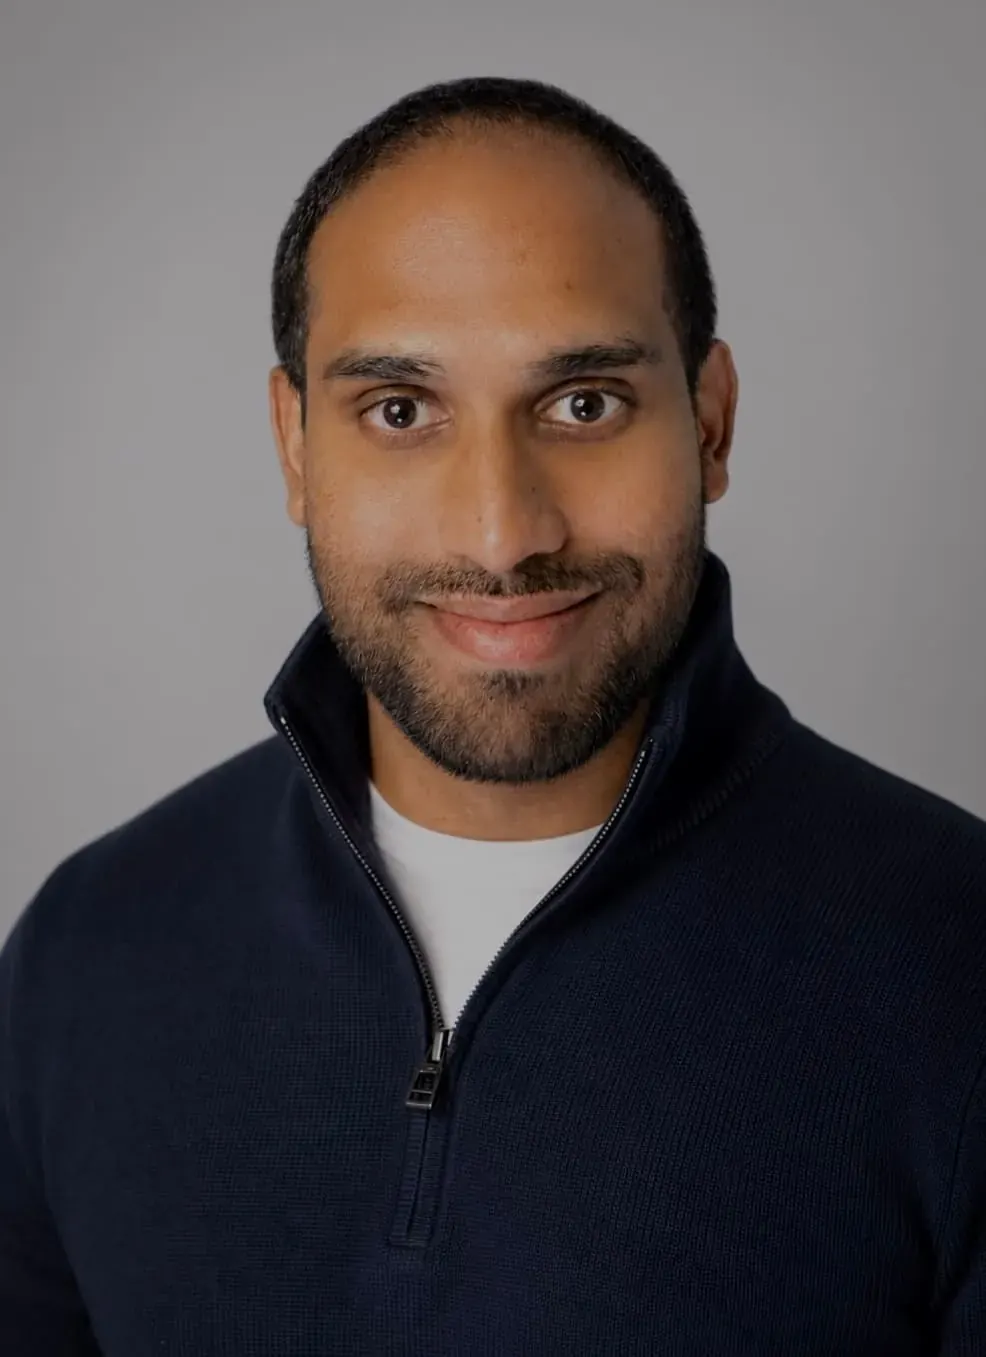
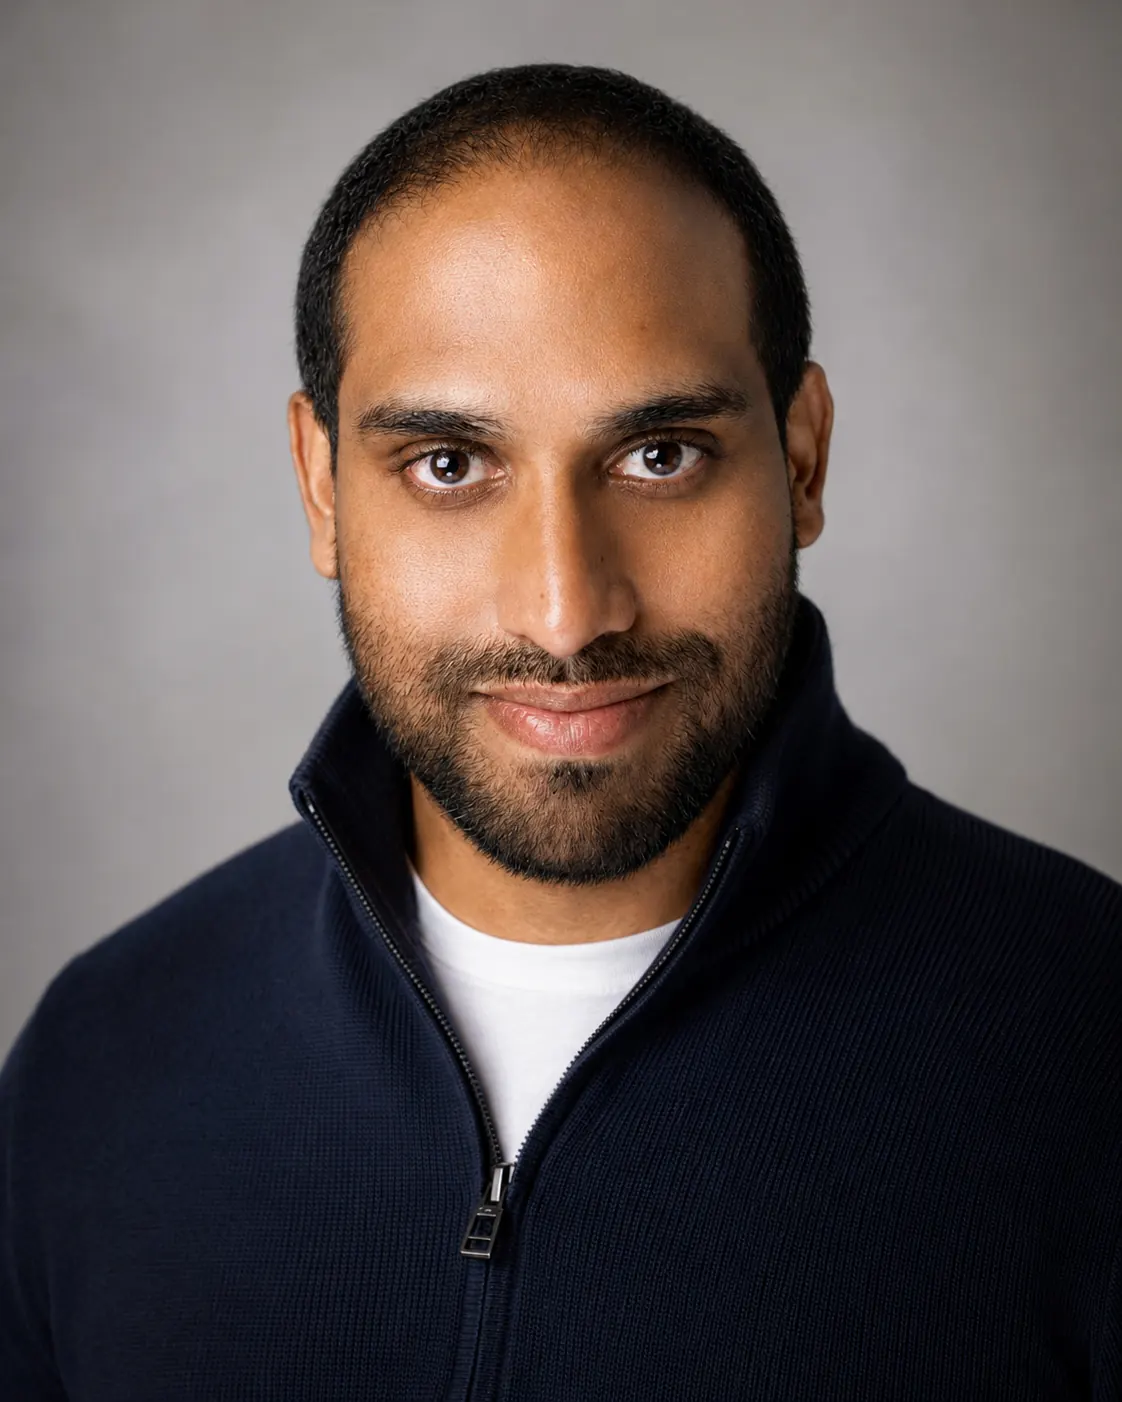
made some changes to the profile pic

Changed region(s): [[0.0, 0.031, 1.0, 0.8976], [0.8824, 0.0, 1.0, 0.2476], [0.0, 0.0, 0.0304, 0.031]]

diff --git a/src/styles/home.css b/src/styles/home.css
@@ -26,7 +26,7 @@
 .profile-image img {
   display: block;
   width: 100%;
-  aspect-ratio: 986 / 1357;
+  aspect-ratio: 1122 / 1402;
   height: auto;
 }
 
